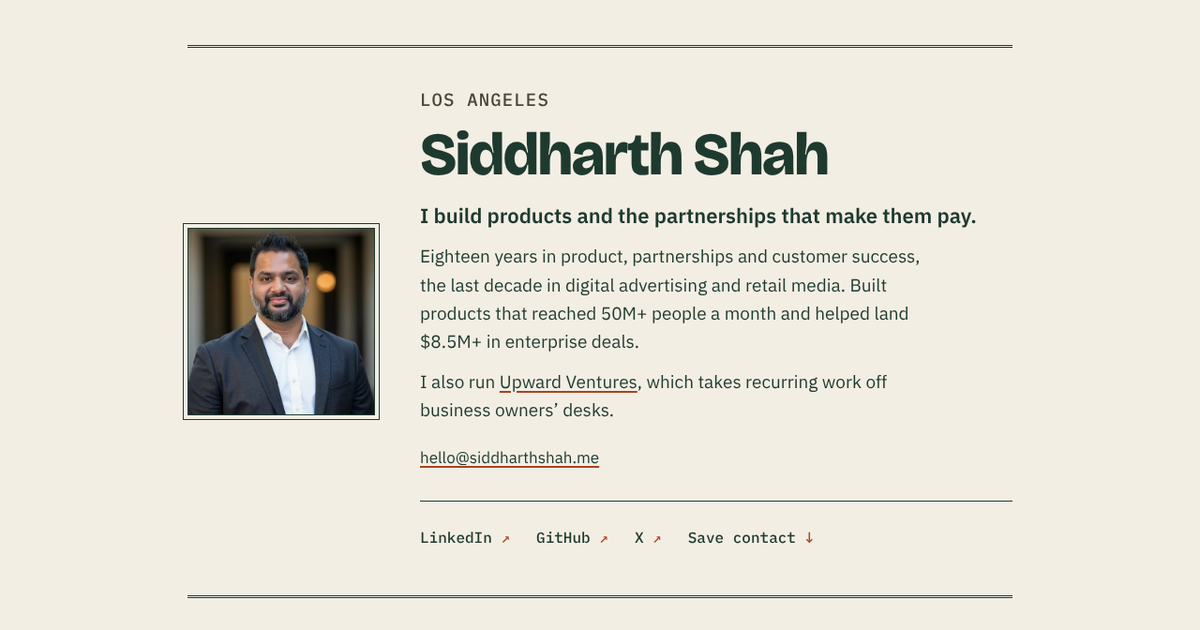
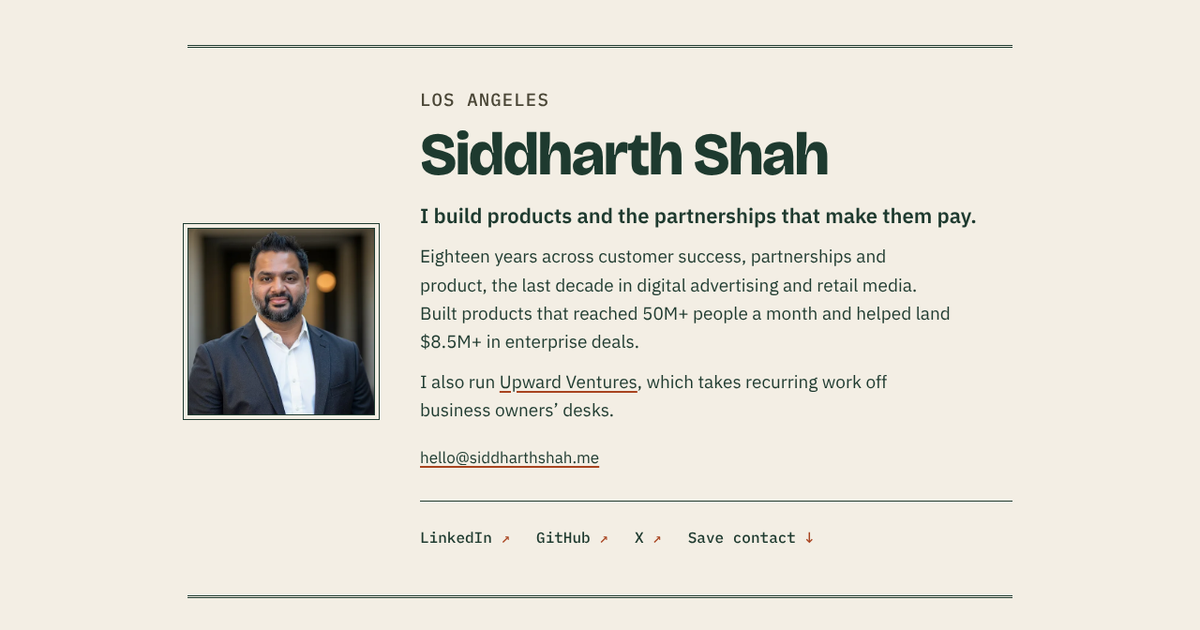
fix(site): keep weather showing and reorder the 18 years
KLGB's latest report sometimes has no temperature, which hid the line; the order now matches how he describes his career.

Changed region(s): [[0.3392, 0.3921, 0.8017, 0.5127]]

diff --git a/public/index.html b/public/index.html
@@ -4,13 +4,13 @@
 <meta charset="utf-8">
 <meta name="viewport" content="width=device-width,initial-scale=1">
 <title>Siddharth Shah</title>
-<meta name="description" content="Siddharth Shah builds products and the partnerships that make them pay. Eighteen years in product, partnerships and customer success. Also runs Upward Ventures.">
+<meta name="description" content="Siddharth Shah builds products and the partnerships that make them pay. Eighteen years across customer success, partnerships and product. Also runs Upward Ventures.">
 <link rel="canonical" href="https://siddharthshah.me/">
 <meta property="og:title" content="Siddharth Shah">
-<meta property="og:description" content="Products and the partnerships that make them pay. Eighteen years in product, partnerships and customer success. Also runs Upward Ventures.">
+<meta property="og:description" content="Products and the partnerships that make them pay. Eighteen years across customer success, partnerships and product. Also runs Upward Ventures.">
 <meta property="og:type" content="profile">
 <meta property="og:url" content="https://siddharthshah.me/">
-<meta property="og:image" content="https://siddharthshah.me/brand/og.png?v=4">
+<meta property="og:image" content="https://siddharthshah.me/brand/og.png?v=5">
 <meta property="og:image:alt" content="Siddharth Shah: I build products and the partnerships that make them pay.">
 <meta property="og:site_name" content="Siddharth Shah">
 <meta property="og:image:width" content="1200">
@@ -77,7 +77,7 @@ h1{margin:0 0 18px;font-family:"Bricolage Grotesque",system-ui,sans-serif;font-w
 }
 </style>
 <script type="application/ld+json">
-{"@context":"https://schema.org","@type":"Person","name":"Siddharth Shah","url":"https://siddharthshah.me/","email":"hello@siddharthshah.me","image":"https://siddharthshah.me/brand/siddharth.jpg","description":"Builds products and the partnerships that make them pay. Eighteen years in product, partnerships and customer success.","address":{"@type":"PostalAddress","addressLocality":"Los Angeles","addressRegion":"CA","addressCountry":"US"},"sameAs":["https://www.linkedin.com/in/iamsiddharthshah","https://github.com/bigsidd","https://x.com/bigsidd"]}
+{"@context":"https://schema.org","@type":"Person","name":"Siddharth Shah","url":"https://siddharthshah.me/","email":"hello@siddharthshah.me","image":"https://siddharthshah.me/brand/siddharth.jpg","description":"Builds products and the partnerships that make them pay. Eighteen years across customer success, partnerships and product.","address":{"@type":"PostalAddress","addressLocality":"Los Angeles","addressRegion":"CA","addressCountry":"US"},"sameAs":["https://www.linkedin.com/in/iamsiddharthshah","https://github.com/bigsidd","https://x.com/bigsidd"]}
 </script>
 </head>
 <body>
@@ -88,7 +88,7 @@ h1{margin:0 0 18px;font-family:"Bricolage Grotesque",system-ui,sans-serif;font-w
 <p class="label">Los Angeles</p>
 <h1>Siddharth&nbsp;Shah</h1>
 <p class="lede">I build products and the partnerships that make them&nbsp;pay.</p>
-<p>Eighteen years in product, partnerships and customer success, the last decade in digital advertising and retail media. Built products that reached 50M+ people a month and helped land $8.5M+ in&nbsp;enterprise&nbsp;deals.</p>
+<p>Eighteen years across customer success, partnerships and product, the last decade in digital advertising and retail media. Built products that reached 50M+ people a month and helped land $8.5M+ in&nbsp;enterprise&nbsp;deals.</p>
 <p>I also run <a class="uvx" href="https://upwardvx.com">Upward Ventures<span class="uv" aria-hidden="true"><svg viewBox="0 0 16 16"><circle cx="8" cy="8" r="6.6" fill="none" stroke="currentColor" stroke-width="1.6"/><path d="M5.4 10.6 10.4 5.6M6.9 5.6h3.5v3.5" fill="none" stroke="currentColor" stroke-width="1.6" stroke-linecap="square"/></svg></span></a>, which takes recurring work off business owners’&nbsp;desks.</p>
 <p class="ask"><a href="mailto:hello@siddharthshah.me">hello@siddharthshah.me</a></p>
 <ul class="links">

diff --git a/worker/weather.js b/worker/weather.js
@@ -1,5 +1,6 @@
 // Long Beach weather for the siddharthshah.me card.
 // Deployed as the Cloudflare Worker "card-weather" (personal account).
+// Reads the last few KLGB observations and uses the newest with a temperature.
 // GET /now.json -> {"t":64,"c":"clear","at":"2026-10-11T07:53:00Z"} or {} when unknown.
 const STATION = 'KLGB'; // Long Beach Airport, NWS
 const ORIGINS = ['https://siddharthshah.me', 'https://www.siddharthshah.me', 'https://siddharthshah-me.onrender.com'];
@@ -22,22 +23,31 @@ export function summarize(obs, now = Date.now()) {
   return out;
 }
 
+// Newest observation that actually carries a temperature (special reports often leave it blank).
+export function latest(collection, now = Date.now()) {
+  for (const obs of (collection && collection.features) || []) {
+    const out = summarize(obs, now);
+    if (out.t !== undefined) return out;
+  }
+  return {};
+}
+
 export default {
   async fetch(req, env, ctx) {
     const url = new URL(req.url);
     const origin = req.headers.get('Origin');
     const cors = { 'Access-Control-Allow-Origin': ORIGINS.includes(origin) ? origin : ORIGINS[0], Vary: 'Origin' };
     if (url.pathname !== '/now.json') return new Response('Not found', { status: 404 });
-    const key = new Request('https://card-weather.internal/now.json');
+    const key = new Request('https://card-weather.internal/now-v2.json');
     const cache = caches.default;
     let res = await cache.match(key);
     if (!res) {
       let body = {}, ttl = 60;
       try {
-        const r = await fetch(`https://api.weather.gov/stations/${STATION}/observations/latest`, {
+        const r = await fetch(`https://api.weather.gov/stations/${STATION}/observations?limit=6`, {
           headers: { 'User-Agent': 'siddharthshah.me card weather (https://siddharthshah.me)', Accept: 'application/geo+json' },
         });
-        if (r.ok) { body = summarize(await r.json()); if (body.t !== undefined) ttl = 900; }
+        if (r.ok) { body = latest(await r.json()); if (body.t !== undefined) ttl = 900; }
       } catch (e) {}
       res = new Response(JSON.stringify(body), { headers: { 'Content-Type': 'application/json', 'Cache-Control': `public, max-age=${ttl}` } });
       ctx.waitUntil(cache.put(key, res.clone()));
